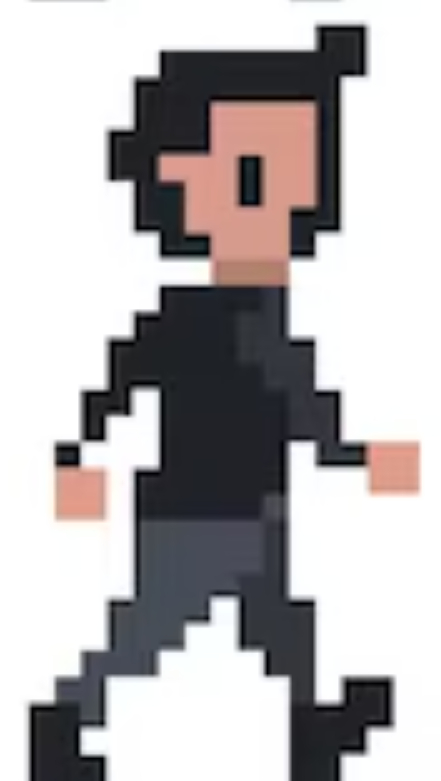
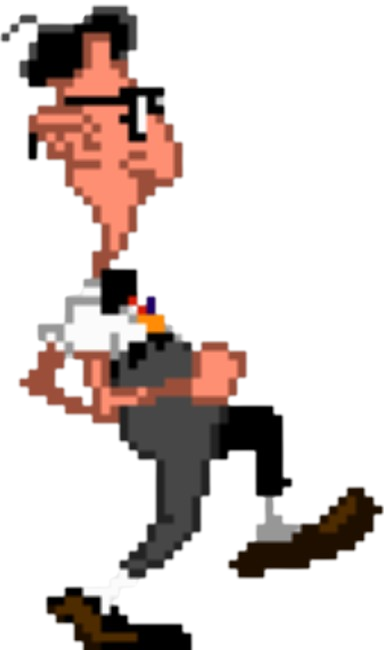
feat: :sparkles: updates and homework finished

diff --git a/Dia13/styles/styles.css b/Dia13/styles/styles.css
@@ -1,108 +1,76 @@
-.element {
-    background-color: lightblue;
-    width: 20vh;
-    height: 20vh;
-    color: white;
-    text-align: center;
-    line-height: 20vh;
-    /*Definir la animacion en duracion*/
-    transition-duration: 5s;
-    transition-timing-function: linear;
-    margin-bottom: 30px;
-}
 
-.element:hover {
-    /* Primer ejemplo: Anima a que todas las propiedades cambien de estado*/
-    width: 30vh;
-    height: 30vh;
+body {
     background-color: black;
+    display: flex;
+    align-items: center;
+    justify-content: center;
+    height: 100vh;
+    margin: 0;   
 }
 
-a {
-    background-color: black;
-    color: white;
-    padding: 8px;
-    font-size: 50px;
-    transition: font-size 3s,background 8s;
+.animatedBackground {
+    background-image: url(../img/background.png);
+    background-size: cover;
+    width: 1100px;
+    height: 284px;
+    display: flex;
+    align-items: center;
+    justify-content: center;
+    animation: backgroundAnimation linear 4s infinite;
 }
 
-a:hover {
-    background-color: red;
-    font-size: 30px;
+.animatedGuy {
+    background-image: url(../img/1.png);
+    height: 172px;
+    width: 102px;
+    background-size: cover;
+    animation: guyAnimation .9s infinite;
 }
 
-.tercerEjemplo {
-    margin-top: 30px;
-    background-color: blue;
-    width: 100px;
-    height: 100px;
-    
-}
-
-.tercerEjemplo:hover {
-    animation: cambiar-color 10s;
-}
-
-@keyframes cambiar-color {
-    0%{ 
-        background-color: blue;
+@keyframes backgroundAnimation {
+    from{
+    background-position: 0px;
     }
-    25% {
-        background-color: blueviolet;
-    }
-    50% {
-        background-color: chartreuse;
-    }
-    75% {
-        background-color: aquamarine;
-    }
-    100% {
-        background-color: black;
+    to{
+    background-position: -1100px;
     }
 }
 
-.try {
-    width: 500px;
-    height: 900px;
-    position: absolute;
-    border: solid 2px red;
-}
-
-.try:hover {
-    animation: intento .75s infinite;
-}
-
-@keyframes intento {
+@keyframes guyAnimation {
     0% {
         background-image: url(../img/1.png);
+        height: 172px;
+        width: 102px;
         background-size: cover;
     }
-    15% {
+    20% {
         background-image: url(../img/2.png);
+        height: 172px;
+        width: 102px;
         background-size: cover;
     }
-    30% {
+    40% {
         background-image: url(../img/3.png);
+        height: 172px;
+        width: 102px;
         background-size: cover;
     }
-    45% {
+    60% {
         background-image: url(../img/4.png);
+        height: 172px;
+        width: 102px;
         background-size: cover;
     }
-    55% {
+    80% {
         background-image: url(../img/5.png);
-        background-size: cover;
-    }
-    70% {
-        background-image: url(../img/6.png);
-        background-size: cover;
-    }
-    85% {
-        background-image: url(../img/7.png);
+        height: 172px;
+        width: 102px;
         background-size: cover;
     }
     100% {
-        background-image: url(../img/8.png);
+        background-image: url(../img/6.png);
+        height: 172px;
+        width: 102px;
         background-size: cover;
     }
 }

diff --git a/Dia13/index.html b/Dia13/index.html
@@ -8,13 +8,10 @@
     <title> Gustavo's Grid </title>
 </head>
 <body>
-    <div class="element"> 
-        Ejemplo de Transiciones con CSS
+    <div class="container"> 
+        <div class="animatedBackground">
+            <div class="animatedGuy"> </div>
+        </div>
     </div>
-    <a href="#"> holisss </a>
-    <div class="tercerEjemplo">
-
-    </div>
-    <div class="try"> </div>
 </body>
 </html>
